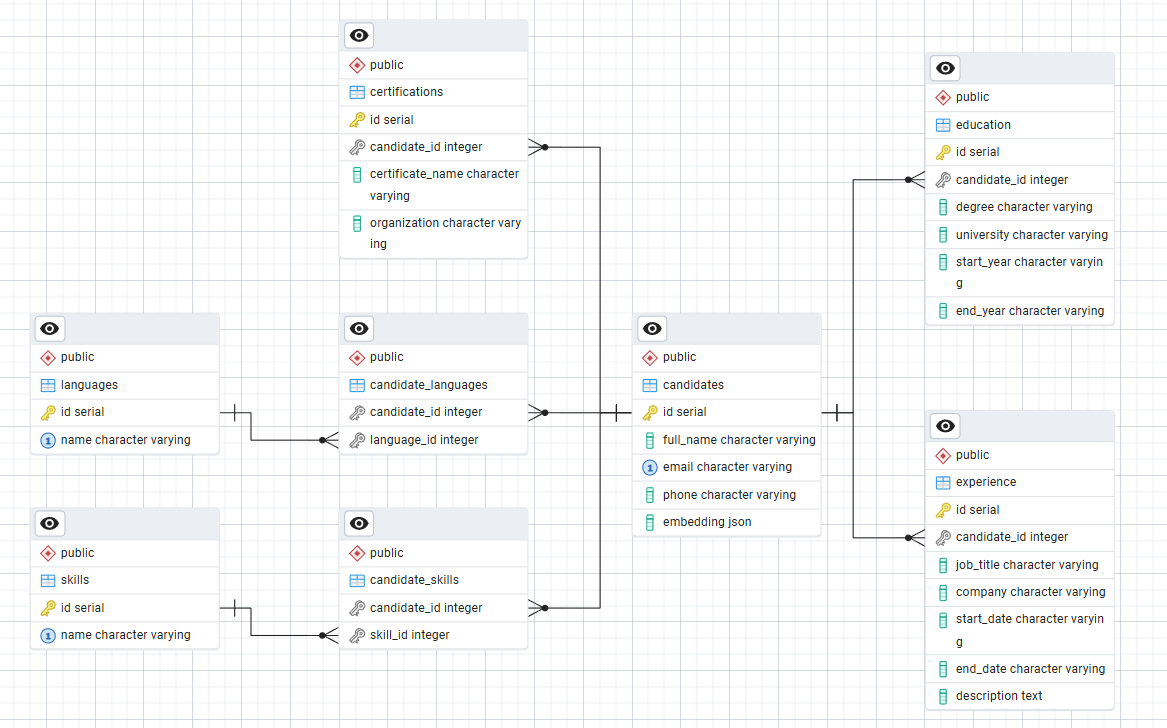
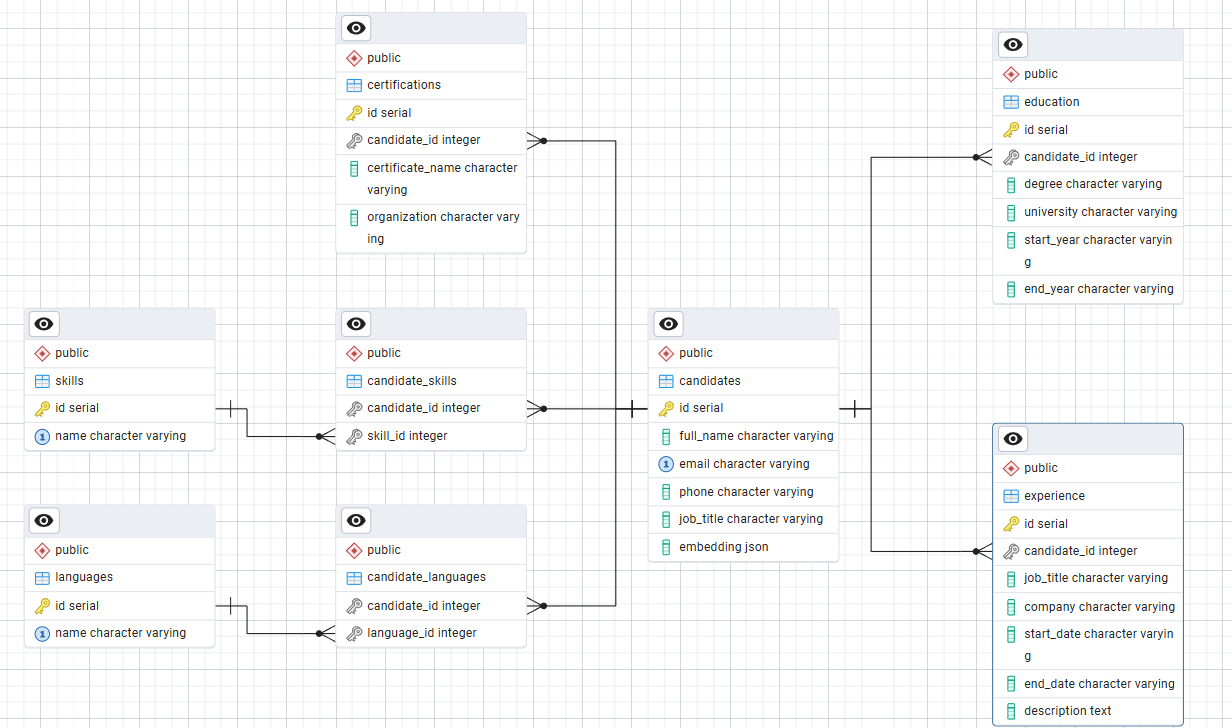
add job_title

diff --git a/app/app.py b/app/app.py
@@ -41,7 +41,8 @@ def search_candidates(job_title, skills, experience):
         return []
 
 def candidate_detail(candidate):
-    st.subheader(f"🧑💼 {candidate.get('name', 'N/A')}")
+    st.subheader(f"🧑💼 {candidate.get('full_name', 'N/A')}")
+    st.write(f"**Job Title**: {candidate.get('job_title', 'N/A')}")
     st.write(f"**Email**: {candidate.get('email', 'N/A')}")
     st.write(f"**Phone**: {candidate.get('phone', 'N/A')}")
     st.write(f"**Skills**: {', '.join(candidate.get('skills', []))}")
@@ -107,6 +108,7 @@ def main():
             if st.button("Back to list"):
                 st.session_state["selected_candidate"] = None
                 st.rerun()
+
         elif "search_results" in st.session_state and st.session_state["search_results"]:
             st.write("### 📋 List of matching candidates")
             results = st.session_state["search_results"]
@@ -115,7 +117,8 @@ def main():
                 with col1:
                     st.markdown(f"#### {idx+1}")
                 with col2:
-                    st.markdown(f"**Name:** {row.get('name', 'N/A')}")
+                    st.markdown(f"**Name:** {row.get('full_name', 'N/A')}")
+                    st.markdown(f"**Job Title:** {row.get('job_title', 'N/A')}")
                     st.markdown(f"**Email:** {row.get('email', 'N/A')}")
                     st.markdown(f"**Skills:** {', '.join(row.get('skills', []))}")
                     if st.button("View Details", key=f"detail_{idx}"):

diff --git a/scripts/main.py b/scripts/main.py
@@ -119,6 +119,7 @@ async def create_candidate(
         full_name=safe_get(info.get('full_name')),
         email=email,
         phone=safe_get(info.get('phone')),
+        job_title=job_title,
         embedding=json.dumps(embedding)
     )
 
@@ -173,6 +174,7 @@ async def create_candidate(
         full_name=candidate.full_name,
         email=candidate.email,
         phone=candidate.phone,
+        job_title=safe_get(info.get('job_title', 'Unknown')),
         education=[
             {
                 "degree": safe_get(e.get("degree")),
@@ -246,6 +248,7 @@ def search_candidates_semantic(
             full_name=c.full_name,
             email=c.email,
             phone=c.phone,
+            job_title=safe_get(c.job_title, default="Unknown"),
             education=[
                 {
                     "degree": safe_get(e.degree),

diff --git a/scripts/models.py b/scripts/models.py
@@ -90,6 +90,7 @@ class Candidate(Base):
     full_name = Column(String, nullable=True)  
     email = Column(String, nullable=True, unique=True) 
     phone = Column(String, nullable=True)
+    job_title = Column(String, nullable=True)
     embedding = Column(JSON, nullable=True)
 
     education = relationship('Education', back_populates='candidate', cascade='all, delete-orphan')

diff --git a/scripts/candidate.py b/scripts/candidate.py
@@ -20,6 +20,7 @@ class Certification(BaseModel):
 
 class CandidateIn(BaseModel):
     full_name: Optional[str] = None
+    job_title: Optional[str] = None
     email: Optional[str] = None
     phone: Optional[str] = None
     education: List[Education] = []

diff --git a/scripts/info_extract.py b/scripts/info_extract.py
@@ -21,6 +21,7 @@ Extract the following candidate information fields from the CV content (as plain
 "full_name": "...",
 "email": "...",
 "phone": "...",
+"job_title": "...",
 "education": [
     {{
     "degree": "...",
